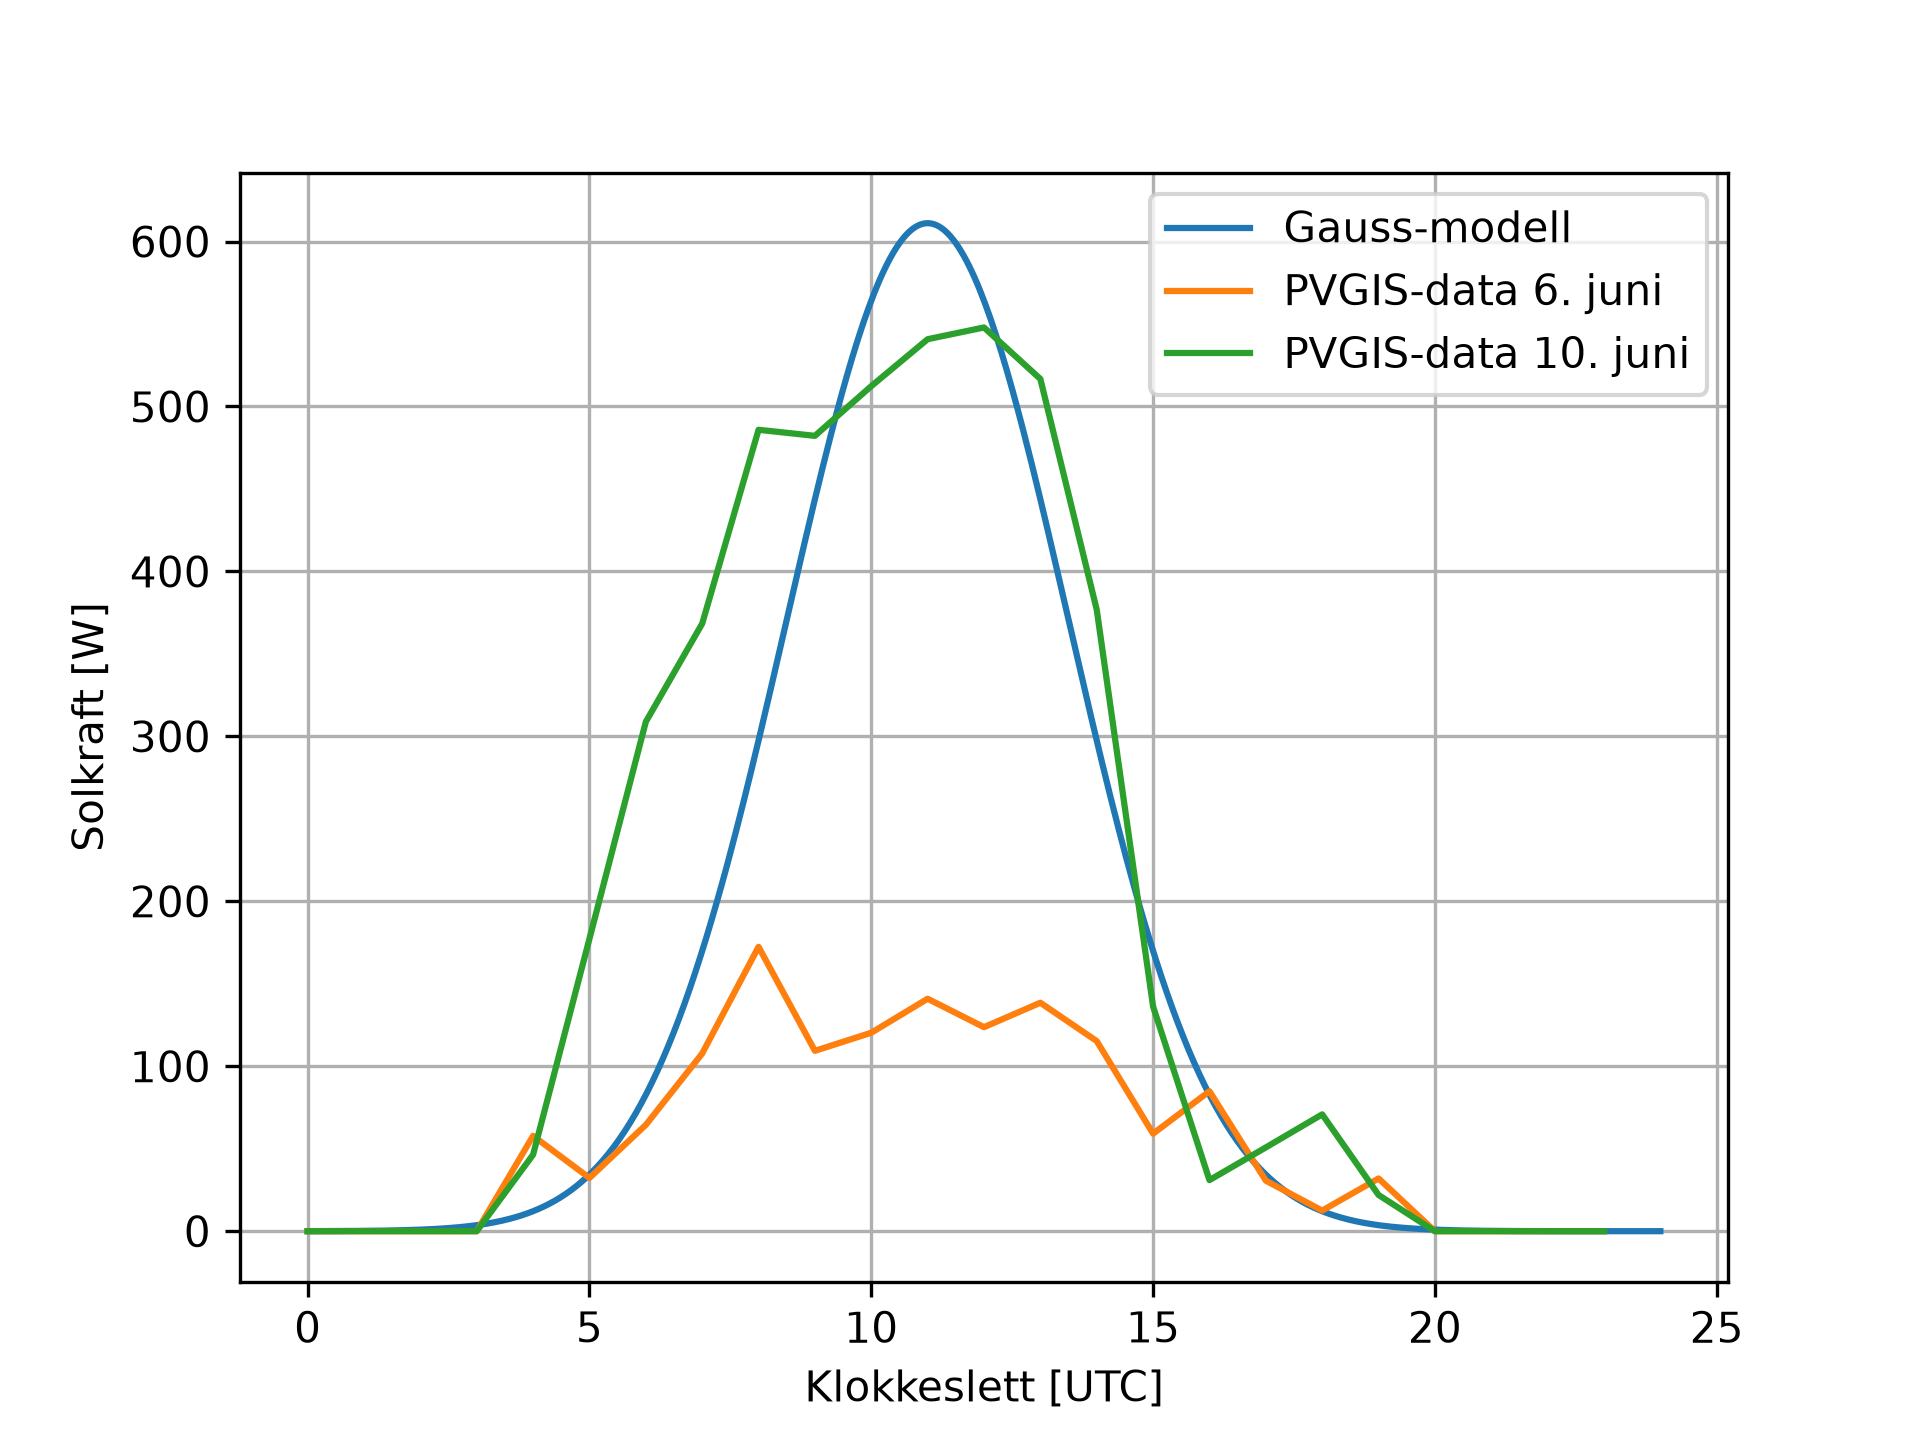
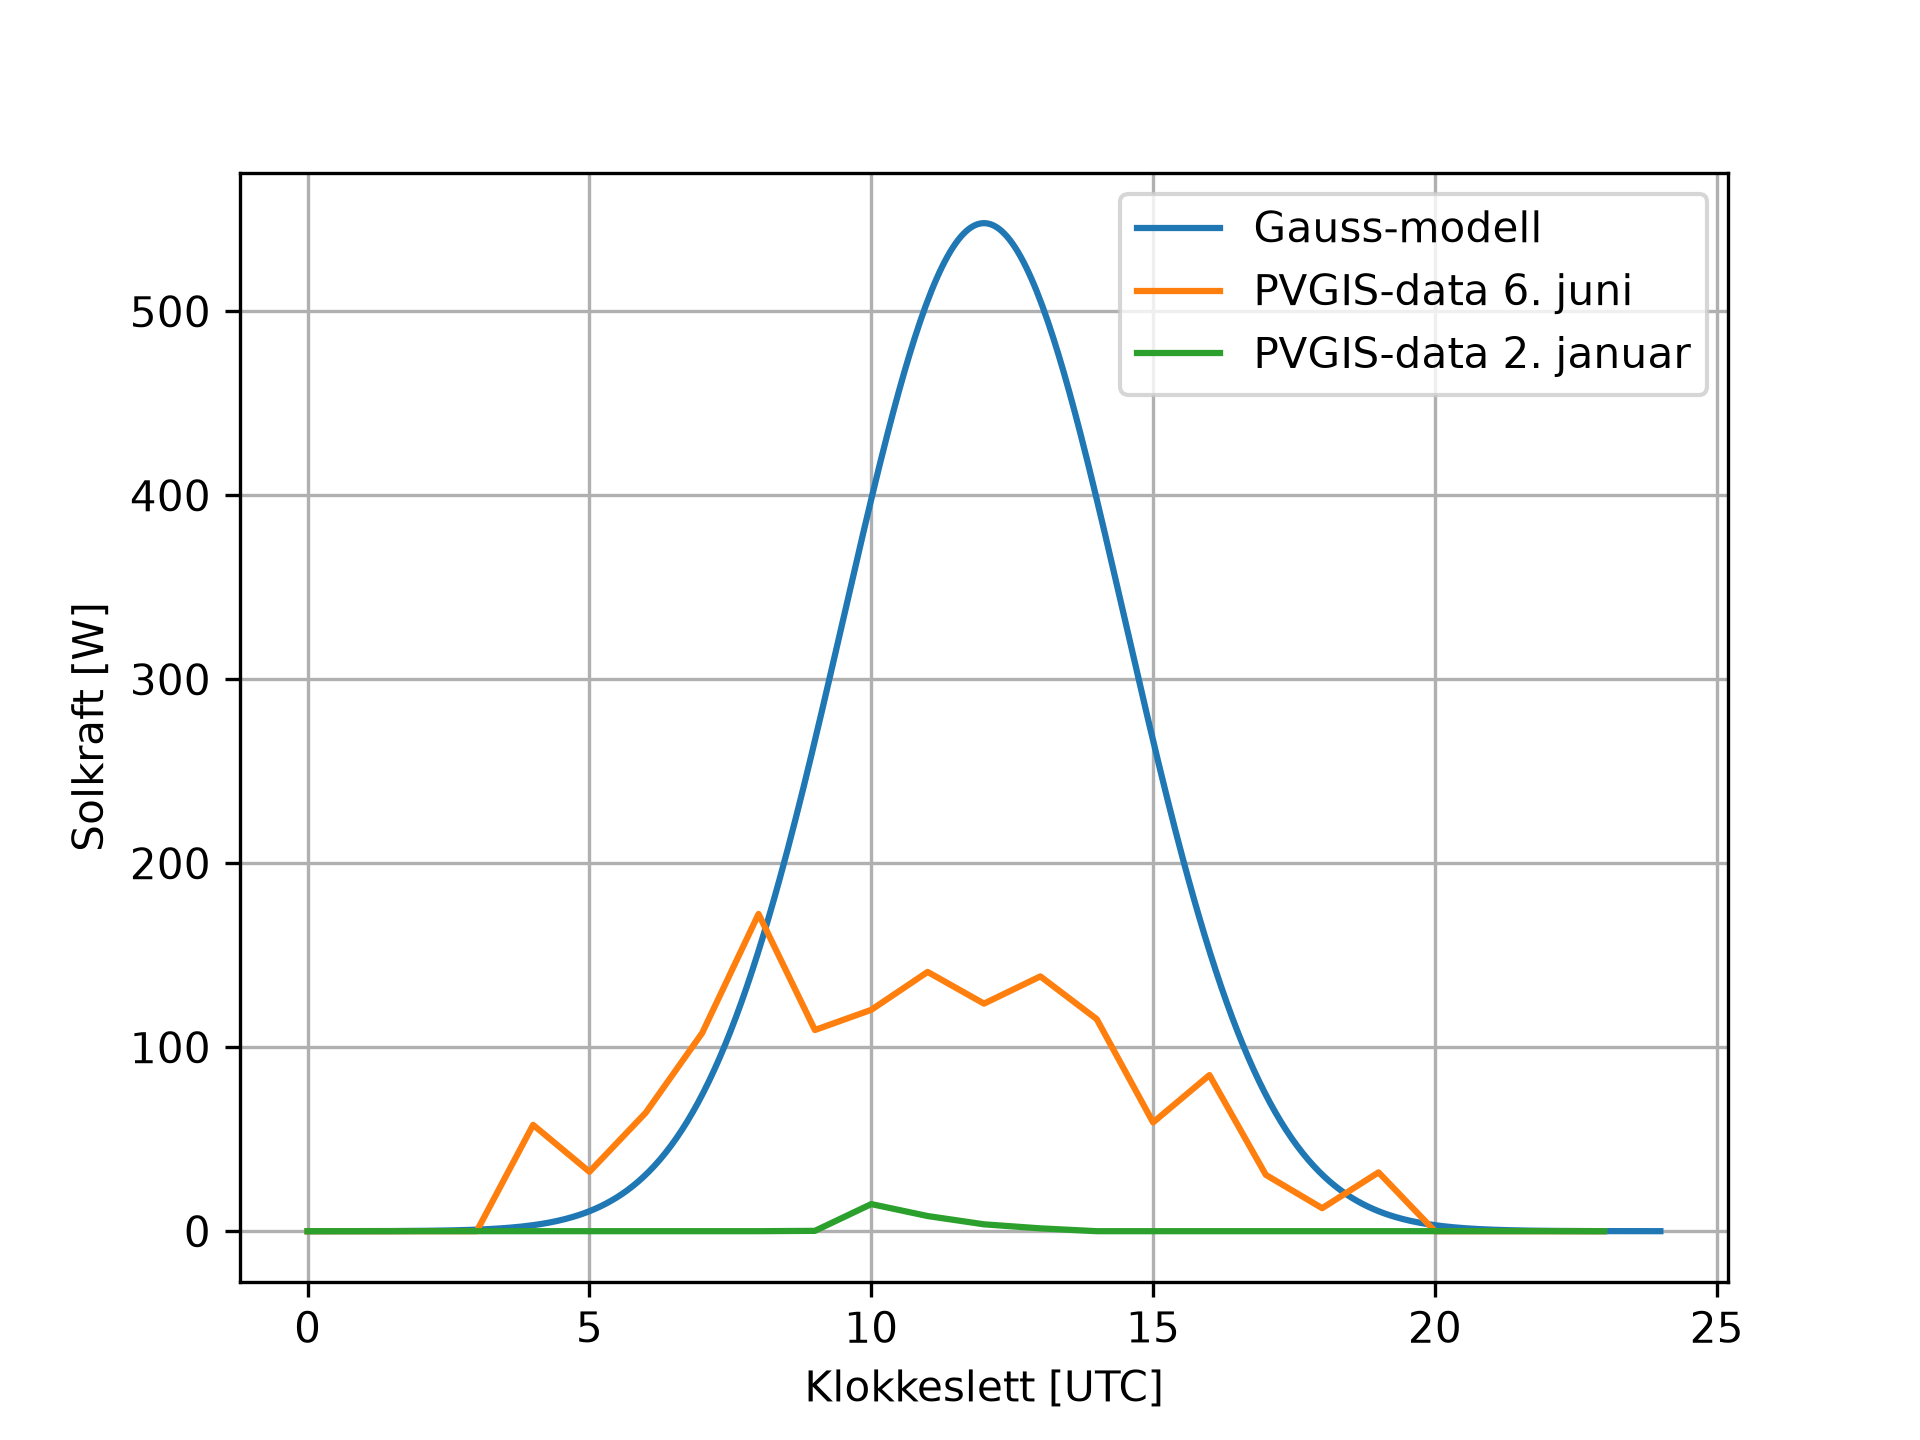
endret dato

diff --git a/Prosjekt-ELK330/gauss-solkraft-PVGIS.py b/Prosjekt-ELK330/gauss-solkraft-PVGIS.py
@@ -4,10 +4,10 @@ import matplotlib.pyplot as plt
 
 solkraft = pd.read_csv("solkraft_klargjort.csv", index_col="time", parse_dates=["time"])
 
-sol_dag = solkraft.loc["2020-06-01", "P"]
+sol_dag = solkraft.loc["2020-06-10", "P"]
 
 sol_test1 = solkraft.loc["2020-06-06", "P"]
-sol_test2 = solkraft.loc["2020-06-10", "P"]
+sol_test2 = solkraft.loc["2021-01-02", "P"]
 
 A = sol_dag.max()
 my = sol_dag.idxmax().hour
@@ -17,12 +17,12 @@ t = np.linspace(0, 24, 500)
 
 G = A * np.exp(-(t-my)**2 / (2 * sigma**2))
 
-plt.plot(t, G, label="Gauss-modell fra 1. juni")
+plt.plot(t, G, label="Gauss-modell fra 10. juni")
 plt.plot(sol_test1.index.hour, sol_test1, label="PVGIS-data fra 6. juni")
-plt.plot(sol_test2.index.hour, sol_test2, label="PVGIS-data fra 10. juni")
+plt.plot(sol_test2.index.hour, sol_test2, label="PVGIS-data fra 2. januar")
 plt.xlabel("Klokkeslett [UTC]")
 plt.ylabel("Solkraft [W]")
-plt.legend(["Gauss-modell", "PVGIS-data 6. juni", "PVGIS-data 10. juni"])
+plt.legend(["Gauss-modell", "PVGIS-data 6. juni", "PVGIS-data 2. januar"])
 plt.grid()
-plt.savefig("PVGIS_gauss_sommer.png", dpi=300)
+#plt.savefig("PVGIS_gauss_sommer.png", dpi=300)
 plt.show()
